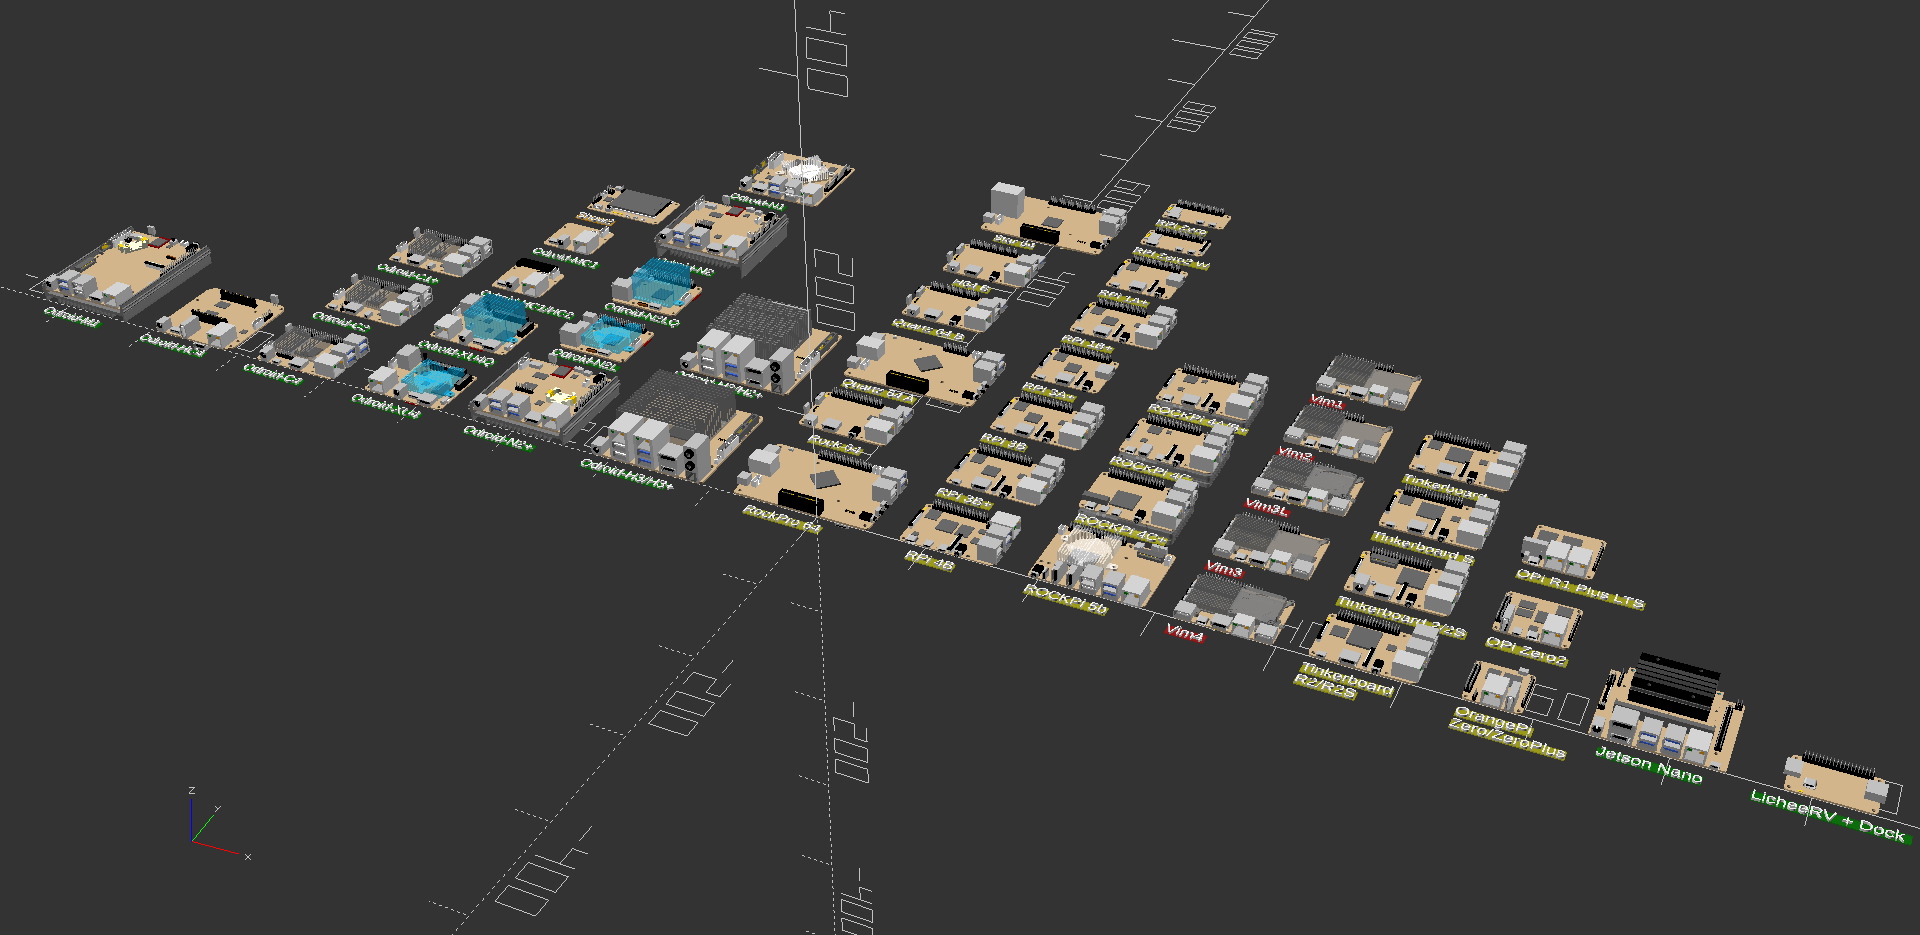
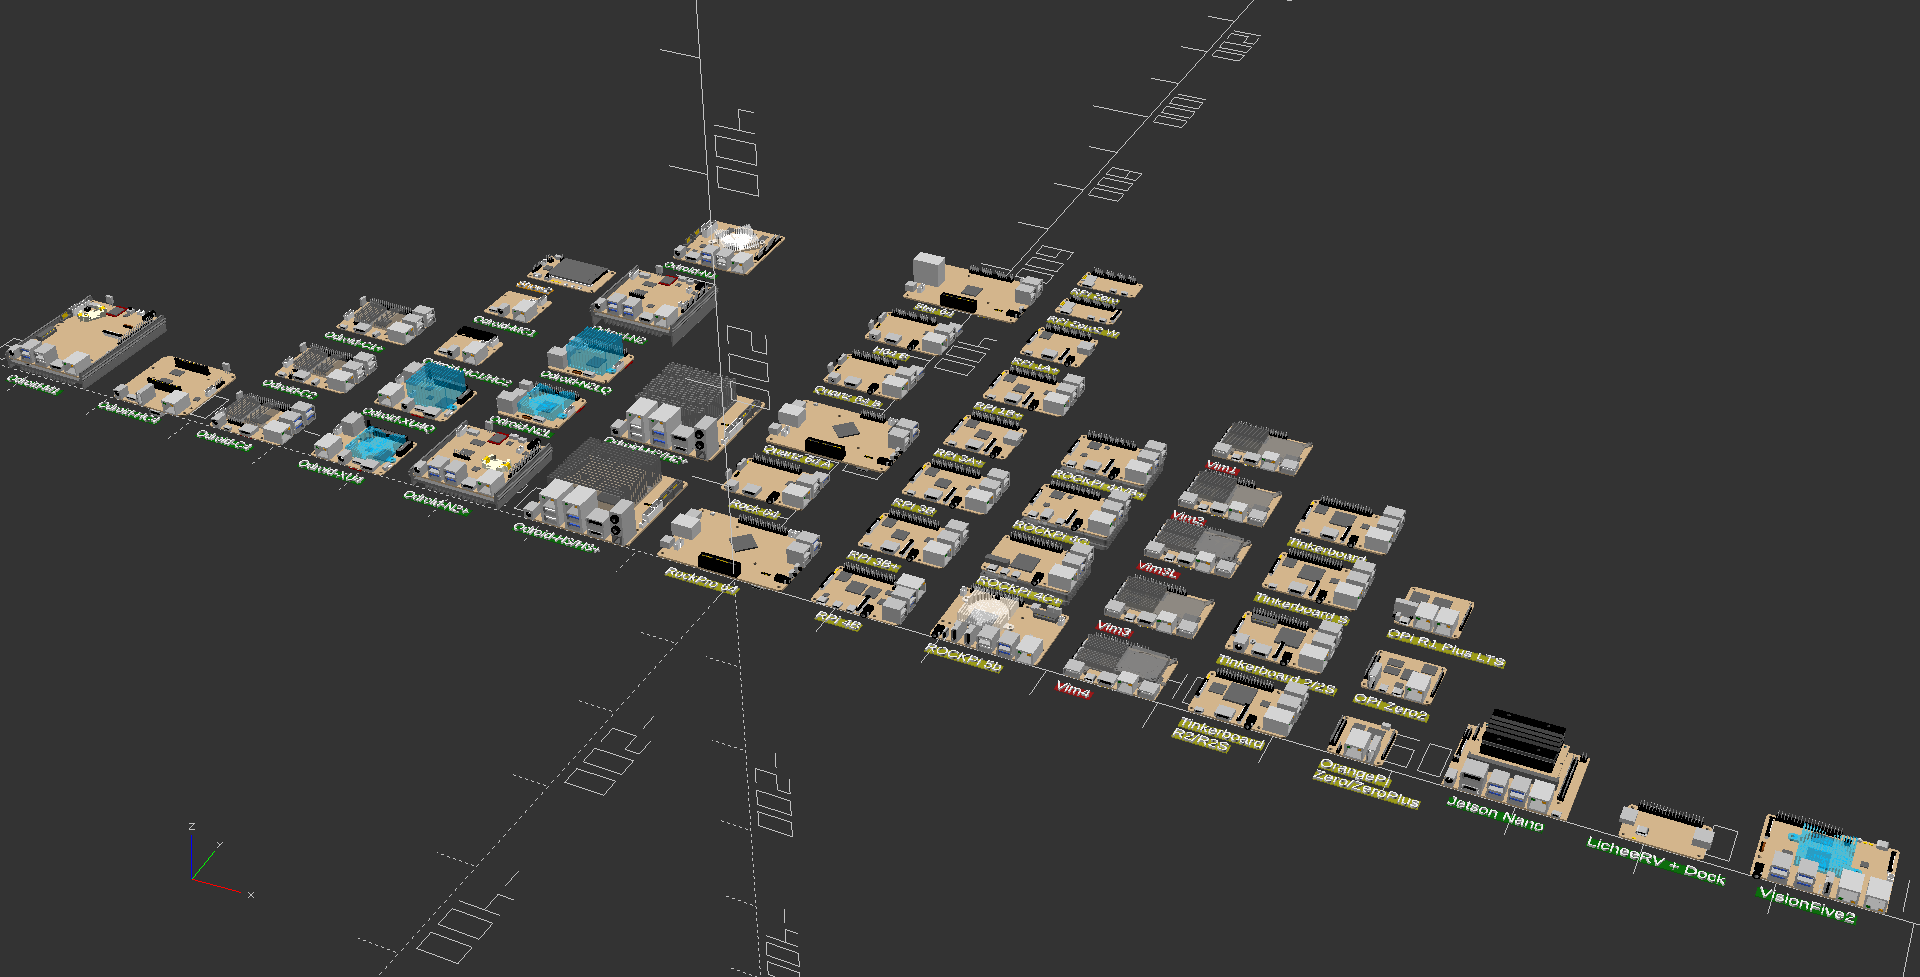
added visionfive2, updated readme.md and other associated bits.

diff --git a/README.md b/README.md
@@ -7,7 +7,7 @@ This project is a lightweight and dynamic framework for the generation of SBC an
 
 ![Image](sbc.png)
 
-### Current SBC: 53
+### Current SBC: 56
 
 ## Using the Framework
 
@@ -108,7 +108,7 @@ jetsonnano - GREEN, verified.
 
 
 
-### Pine64: 5
+### Pine64: 6
 
 All created from mechanical drawings except rockpro64 which was contributed. The SOC data is missing for many of these SBC.
 
@@ -122,6 +122,7 @@ quartz64b - YELLOW, unverified mostlikely usable and/or missing minor informatio
 
 h64b - YELLOW, unverified mostlikely usable and/or missing minor information.
 
+star64 - yellow, unverified mostlikely usable and/or missing minor information.
 
 
 ### Raspberry Pi: 9
@@ -195,6 +196,19 @@ opizero(opizeroplus) - YELLOW, unverified mostlikely usable and/or missing minor
 opizero2 - YELLOW, unverified mostlikely usable and/or missing minor information.
 
 opir1plus_lts - YELLOW, unverified mostlikely usable and/or missing minor information.
+
+
+
+### StarFive: 1
+
+visonfive2 - RED, unverified, not usable due to incomplete component data.
+
+
+
+### Sipeed: 1
+
+licheerv+dock - GREEN, verified to be correct using SBC Case Builder.
+
 
 
 License: GPLv3.
